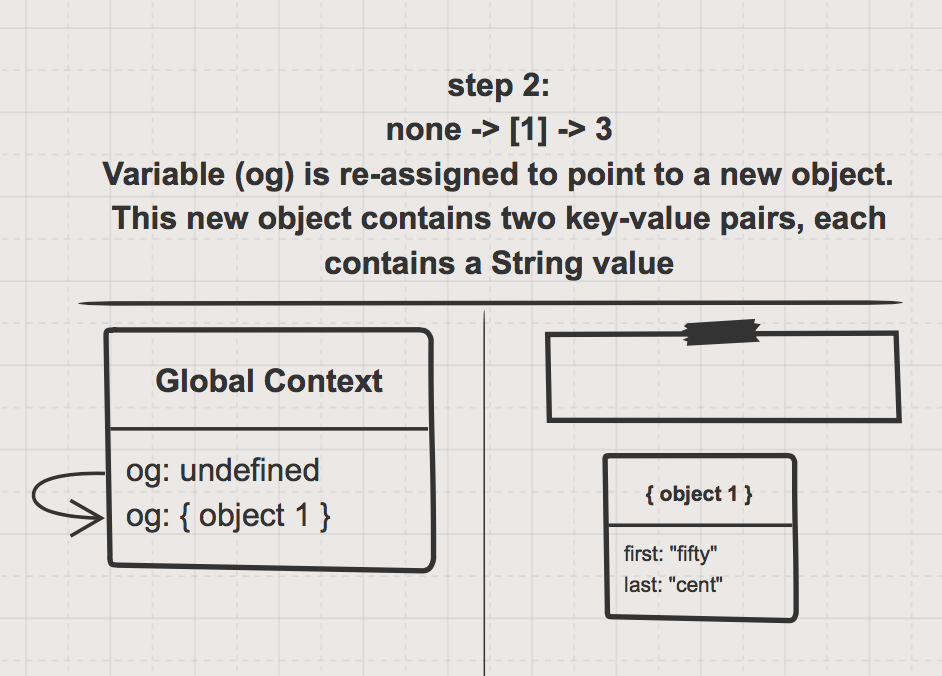
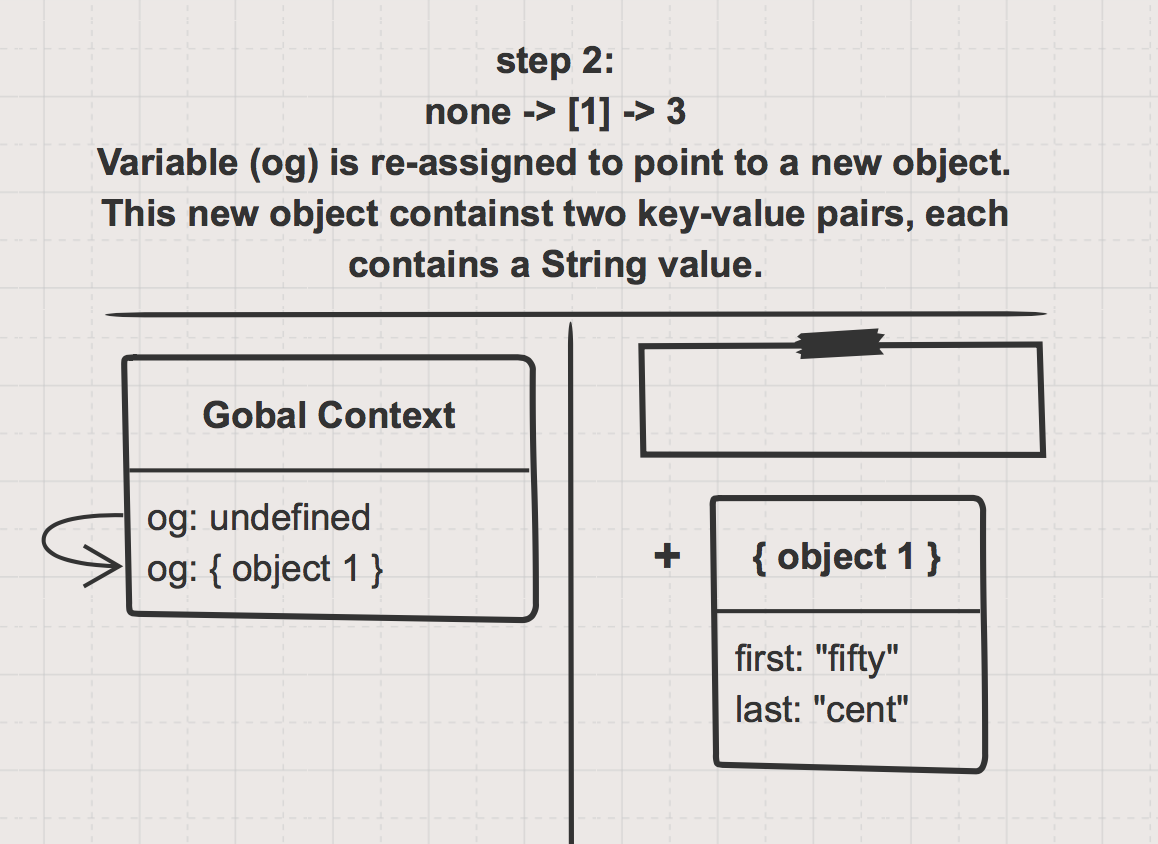
pointer vs value

Changed region(s): [[0.0308, 0.0311, 0.9851, 1.0]]

diff --git a/reference-vs-value/README.md b/reference-vs-value/README.md
@@ -1,0 +1,63 @@
+## Storing by Reference vs. Value
+
+* "Object" is a confusing word in JS.  It can have two different meanings:
+  1. Anything that isn't a primitive (arrays, functions, objects. for now).  This is because of how JavaScript handles inheritance and types behind the scenes.  Take our word for it right now, you'll learn how it works later on.
+  2. The data structure defined by curly braces: {property: "value"};
+* [Primitives vs Objects](https://codeburst.io/javascript-data-types-explained-347555cd2d4d)
+* Storing by value:
+  * Variables that are assigned primitive values directly store a copy of that value.
+  * Modifying a variable's primitive value does not effect memory anywhere else in the program.
+* Storing by reference:
+  * Variables that are assigned object values (functions, arrays, objects) do not store their own copy of that object. They store a pointer to where that object lives in memory.
+  * Modifying a variable that points to an object will immediately effect any other variable pointing to that same object.
+* Side Effects:  When making a change to one piece of your program causes changes somewhere else.  We see this with the two variables __reference\_1__ and __reference\_2__.
+* Garbage collecting.  If no variables are pointing to an object in memory, that object is __un-reachable__ and will be deleted from memory.
+
+
+___
+
+### The Code
+
+```js
+let value_1 = 5;
+let reference_1 = [];
+
+let value_2 = value_1;
+let reference_2 = reference_1;
+
+value_2++;
+reference_2.push(value_2);
+console.log(reference_1);
+
+reference_1 = null;
+reference_2 = null;
+```
+
+[PythonTutor link](https://goo.gl/EY6FjW)
+
+
+
+___
+
+### The Sketches
+
+![](./step-1.png)
+![](./step-2.png)
+![](./step-3.png)
+![](./step-4.png)
+![](./step-5.png)
+![](./step-6.png)
+![](./step-7.png)
+![](./step-8.png)
+![](./step-9.png)
+![](./step-final.png)
+
+___
+
+![](./final-state.png)
+
+
+___
+___
+### <a href="http://elewa.education/blog" target="_blank"><img src="https://user-images.githubusercontent.com/18554853/34921062-506450ae-f97d-11e7-875f-6feeb26ad72d.png" width="100" height="40"/></a>
+

diff --git a/README.md b/README.md
@@ -104,8 +104,12 @@ These diagrams are __change logs__. You won't be drawing everything on the scree
 ## Resources
 
 Completed step-through diagrams to study:
-* [Value swap](./value-swap)
-* 
+* [Reference vs. Value](./value-vs-reference)
+* [Value Swap](./value-swap)
+* [Variables are __untyped__](./variables-are-untyped)
+* [Chaining Assignments](./chaining-assignments)
+* [Hoisting](./hoisting)
+* [Dot vss Bracket Access](./dots-vs-brackets)
 
 Tutorials and the like:
 * [JavaScript.info](http://javascript.info/) chapters:
@@ -139,6 +143,10 @@ Tricky Bits:
 * Creation vs Execution phases:
   * _Creation phase_ is what happens before the first line is executed.  Mostly just hoisting. You can see what happened in the creation phase, it's what PythonTutor displays before you click the __forward__ button for the first time.
   * _Execution phase_ is everything that happens after the creation phase.
+* JavaScript Types:
+  * [Primitives vs. Objects](https://codeburst.io/javascript-data-types-explained-347555cd2d4d)
+  * [List of them](https://www.w3schools.com/js/js_datatypes.asp)
+  * [Type Coersion](https://javascriptweblog.wordpress.com/2010/09/27/the-secret-life-of-javascript-primitives/)
 * Assign by reference vs. value: 
   * [Gist to study](https://gist.github.com/colevandersWands/9f50787fdddfb195d181da94c25536d8)
   * [article 1](https://codeburst.io/explaining-value-vs-reference-in-javascript-647a975e12a0)
@@ -156,6 +164,9 @@ Tricky Bits:
   * [Issues with 'var'](https://www.youtube.com/watch?v=7tGmS2SPxBo)
   * [in great detail](http://exploringjs.com/es6/ch_variables.html)
 * [Incrementing & Decrementing](https://codeburst.io/javascript-increment-and-decrement-8c223858d5ed)
+* Memory Management & Garbage Collection:
+  * [Over-view](https://codeburst.io/javascript-memory-management-and-garbage-collection-in-javascript-ebe7a97d7143)
+  * [In-depth](https://javascript.info/garbage-collection)
 
 
 [TOP](#variables-&-types)
